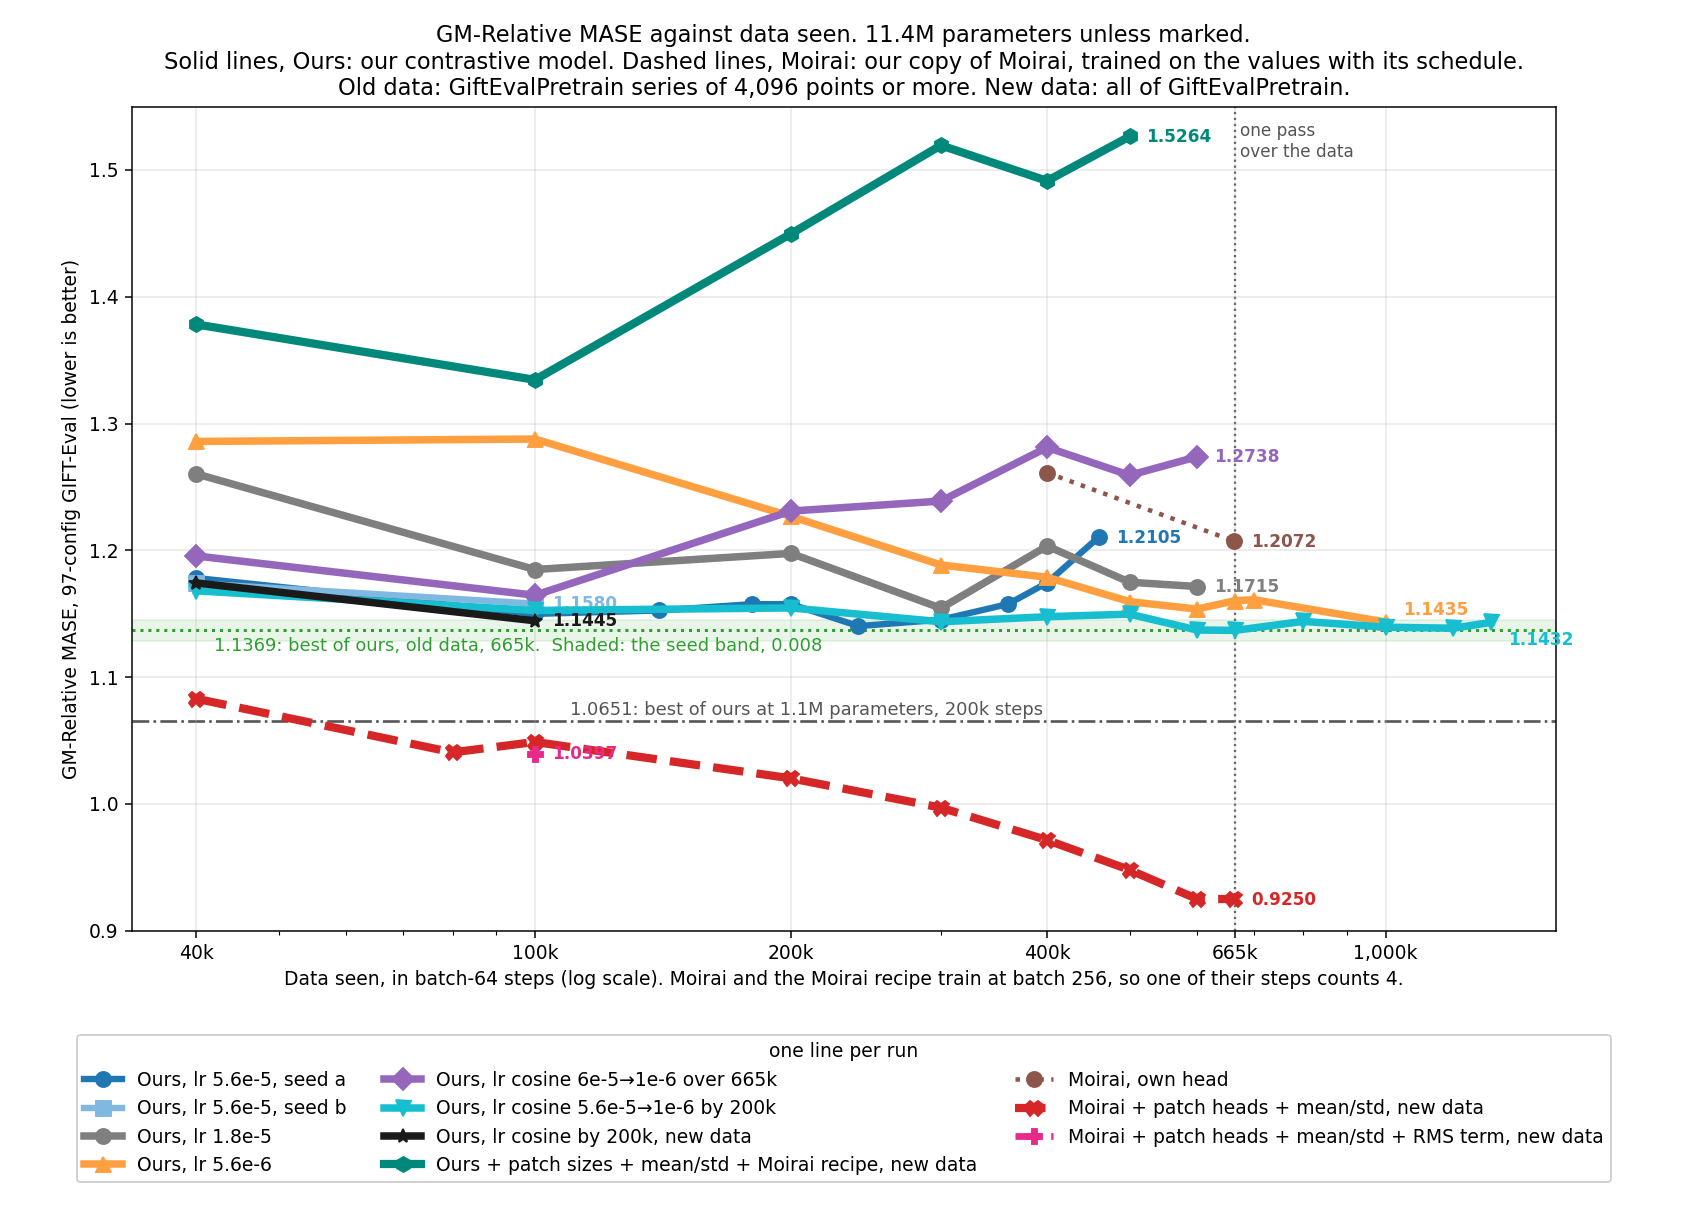
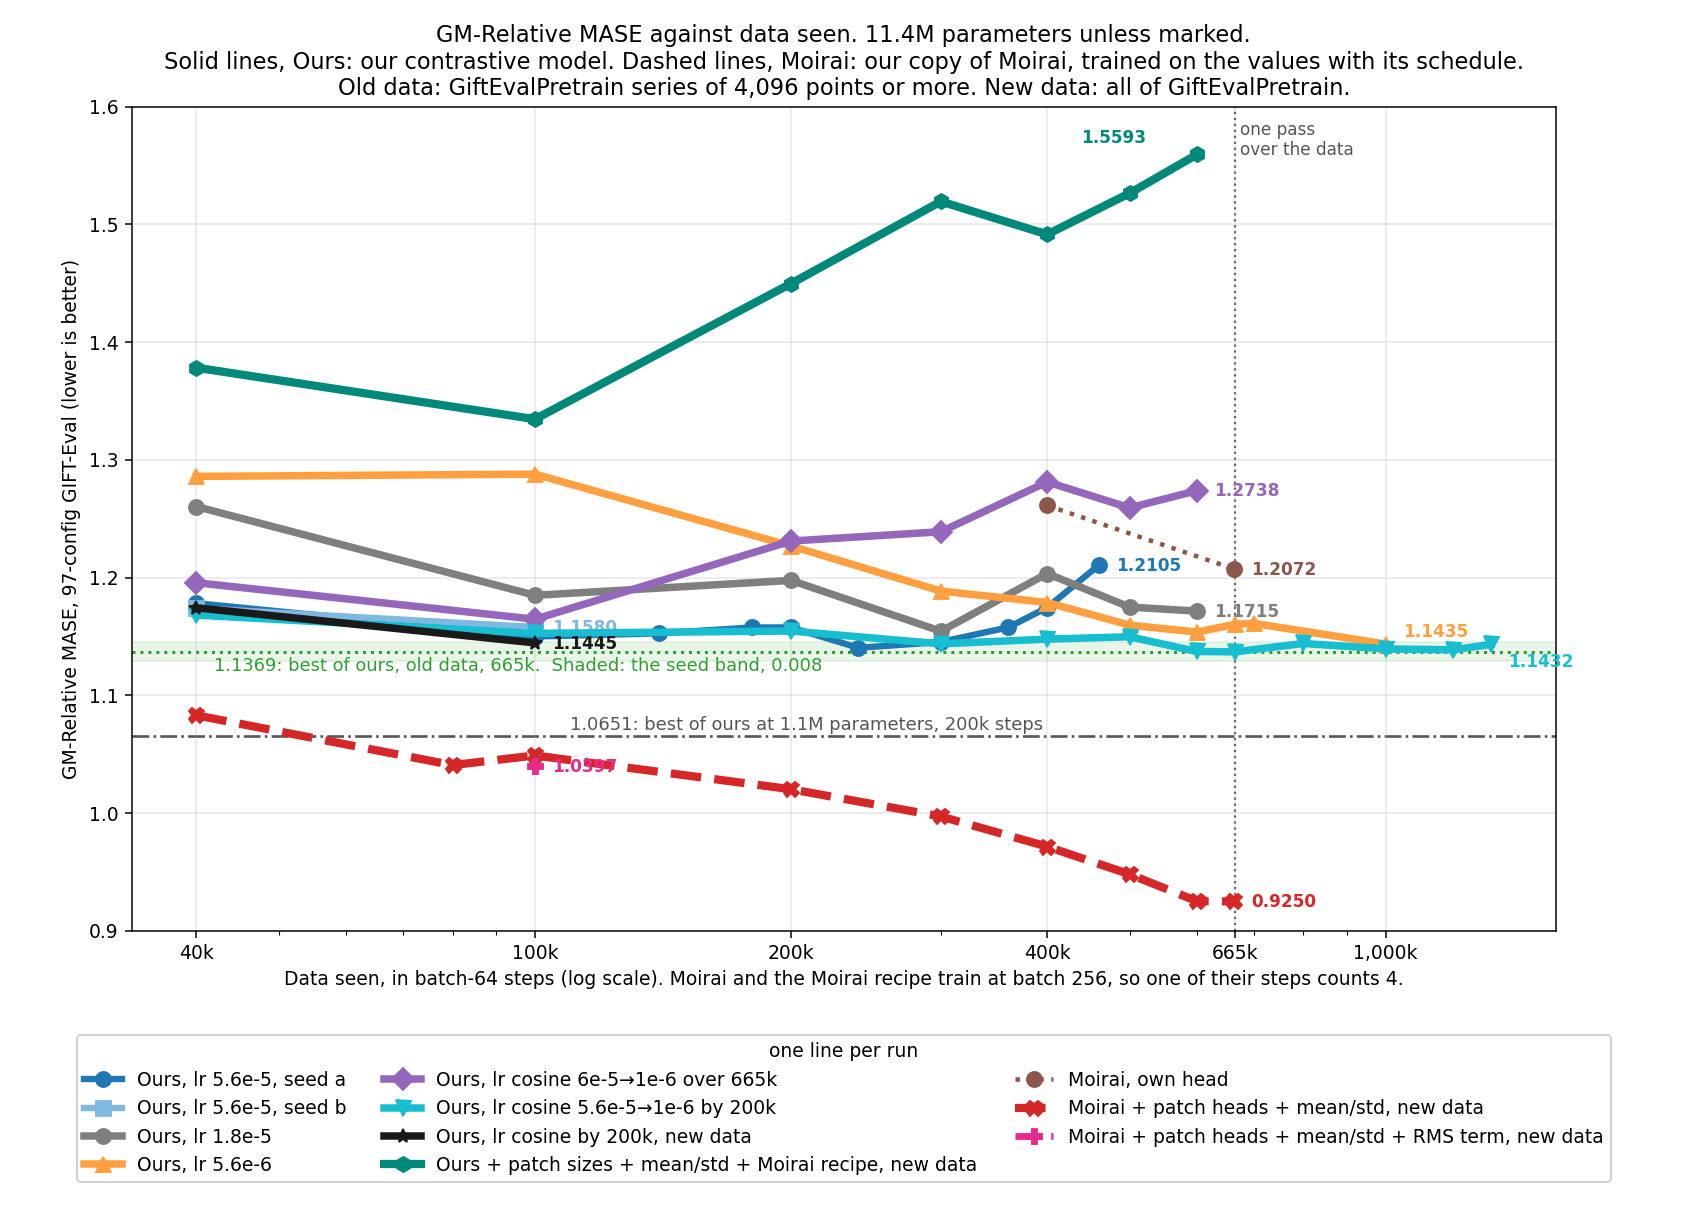
exp(#412): #412om at 150k: 1.5593 (Moirai 0.9251)
The curves figure now reaches 1.60; the #412om end label sits left of
its point, clear of the one-pass text.

Changed region(s): [[0.0925, 0.1218, 0.9247, 0.7309], [0.6473, 0.0914, 0.8014, 0.1523], [0.6781, 0.7309, 0.7706, 0.7613]]

diff --git a/reports/2026-09-06_moirai_small_size/scripts/plot_gm_rates.py b/reports/2026-09-06_moirai_small_size/scripts/plot_gm_rates.py
@@ -44,9 +44,9 @@ XSCALE = {"cf415_moirai": 4, "cf415_moirai_native": 4, "cf419_moirai_native": 4,
           "cf421z_moirai_native": 4, "cf421f_moirai_native": 4, "cf421fb_moirai_native": 4,
           "cf421n_moirai_native": 4, "cf412om": 4}
 # Where the last score of a line prints, so two lines that end together part.
-END_LABEL_OFFSET = {P + "_lr100x": (9, 4), P + "_cos200k": (9, -12)}
+END_LABEL_OFFSET = {P + "_lr100x": (9, 4), P + "_cos200k": (9, -12), "cf412om": (-62, 6)}
 BEST, BAND, PROJECT_BEST = 1.1369, 0.008, 1.0651
-YMIN, YMAX = 0.90, 1.55
+YMIN, YMAX = 0.90, 1.60
 
 
 def load_points():
